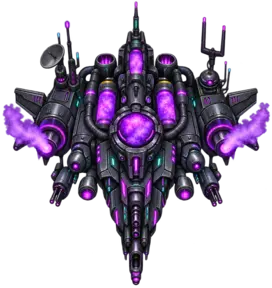
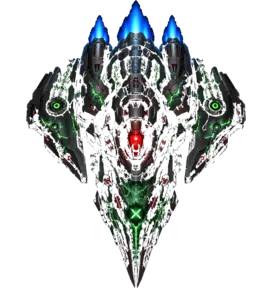
Phase O: restore original-build live art

diff --git a/docs/phase-o-v16-live-slot-sync.md b/docs/phase-o-v16-live-slot-sync.md
@@ -1,0 +1,23 @@
+# Phase O — v16 Canon Live-Slot Sync
+
+## Verdict
+
+The v16 LITE archive is a high-value master bundle, not a deploy bundle. It contains 141 organized opaque PNG assets across the full roster, weapons, projectiles, VFX, environments, UI, boss tech, and campaign transitions.
+
+## Scope
+
+- Replaces provisional live ship, enemy, boss, turret, and pickup art with exact named v16 canon masters.
+- Keeps every existing manifest key, runtime path, draw size, hitbox, and gameplay rule unchanged.
+- Adds no unused v16 assets and does not copy the ZIP or raw PNG masters into the repository.
+
+## Processing
+
+- Edge-key black backgrounds to true alpha.
+- Trim and center each silhouette.
+- Resize to two-times or four-times live draw dimensions.
+- Export optimized WebP with full alpha quality.
+- Verify every runtime file reports transparency and visually inspect the full live set on the game background.
+
+## Deferred Gold
+
+The remaining v16 assets are banked outside the deploy repository for future small phases: expanded ten-ship and ten-enemy rosters, nine weapon tiers, projectile families, five backgrounds, six ground defenses, animated VFX, UI screens, campaign-map transitions, boss-intro effects, and boss-tech special weapons.
